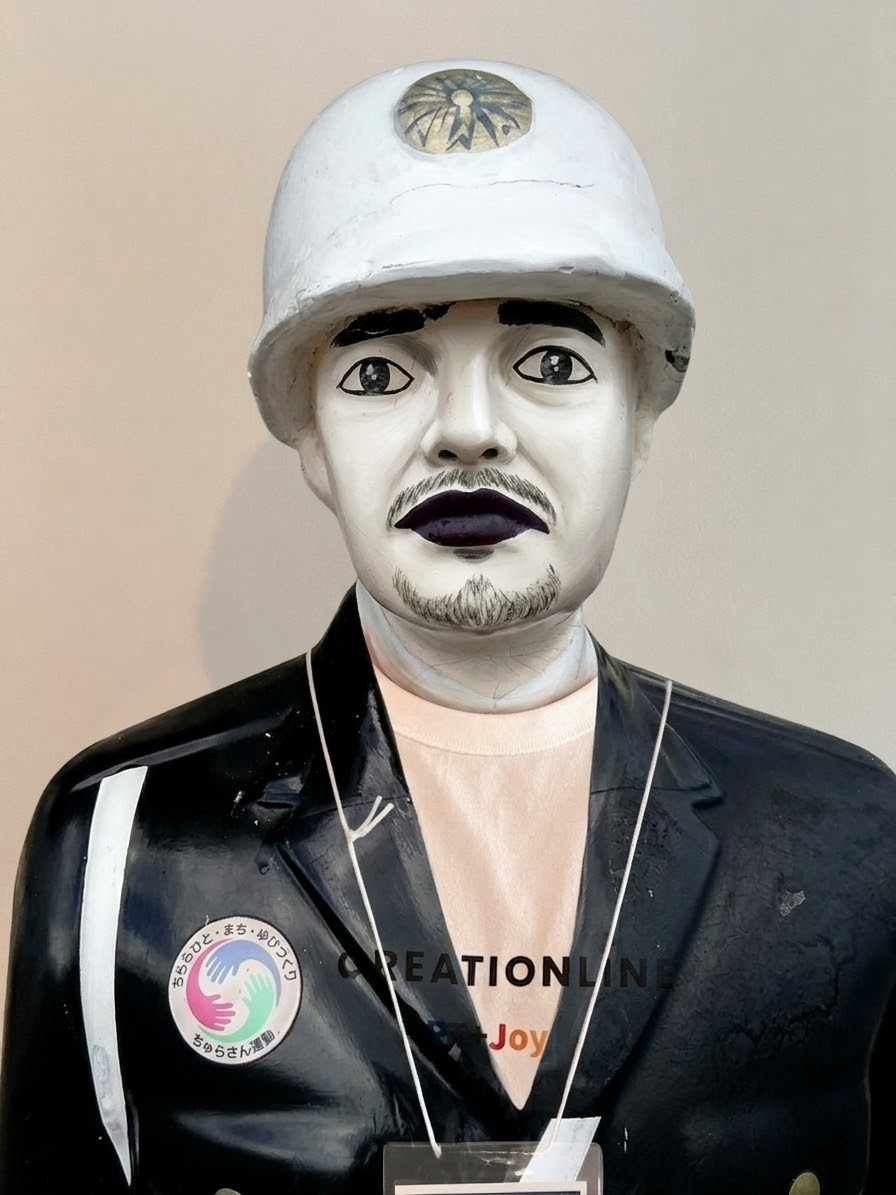
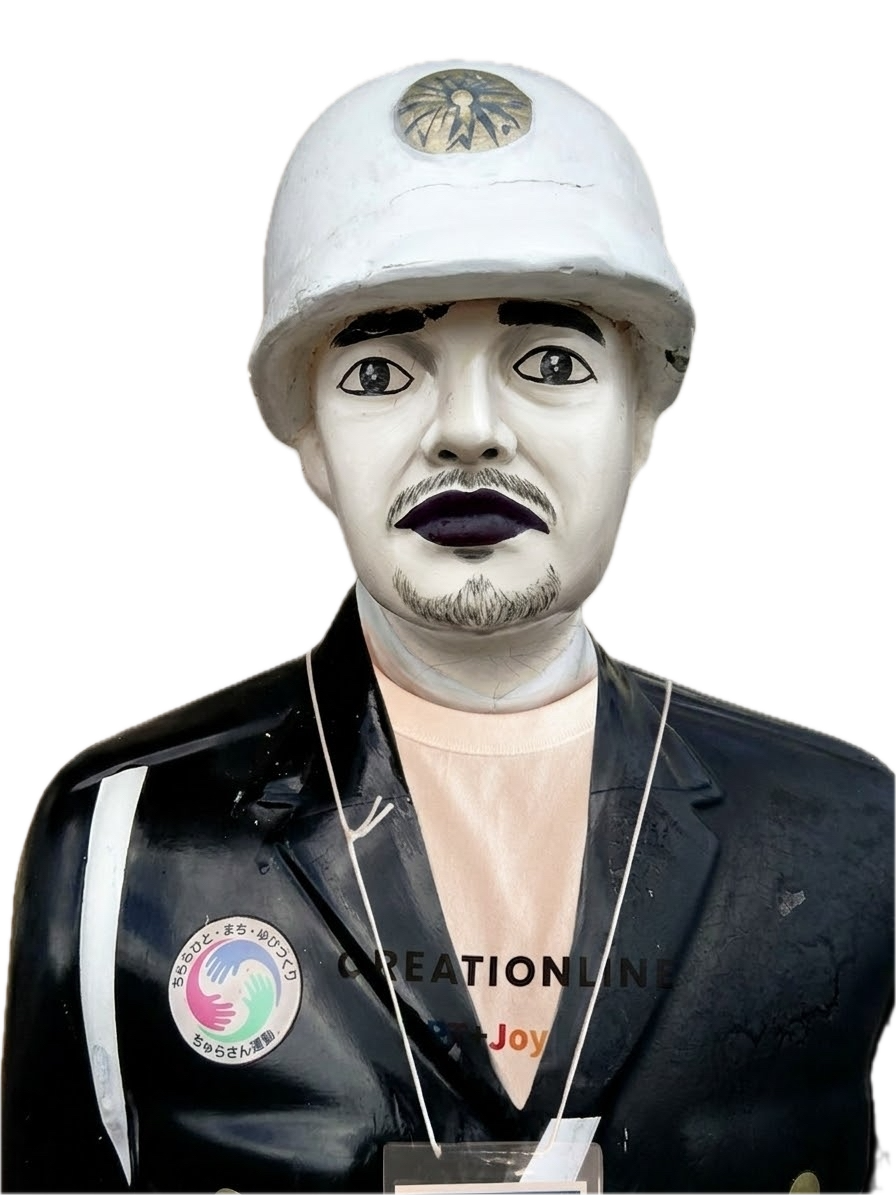
Add updated assets and audio support
Wire in the latest character, background, BGM, and sound effect assets while keeping optional enemy illustration paths ready for future drops.

diff --git a/src/main.js b/src/main.js
@@ -12,10 +12,11 @@ const UNIT_IMAGE_SIZE = 162;
 const UNIT_HIT_RADIUS = 66;
 
 const ASSET_PATHS = {
-  background: "/assets/backgrounds/miyakojima_stage.png",
+  background: "/assets/backgrounds/11317783i.png",
   typhoon01: "/assets/enemies/taihu01.png",
   typhoon02: "/assets/enemies/taihu02.png",
   playerBase: "/assets/bases/miyakojima_base.png",
+  bgm: "/assets/sounds/bgm/沖縄風BGM.mp3",
 };
 
 const CHARACTER_TYPES = [
@@ -52,7 +53,7 @@ const CHARACTER_TYPES = [
     id: "runner",
     name: "ふき",
     role: "速攻",
-    imagePath: "/assets/characters/fuki.png",
+    imagePath: "/assets/characters/huki.png",
     cost: 120,
     cooldown: 2200,
     hp: 95,
@@ -84,6 +85,12 @@ const CHARACTER_TYPES = [
     name: "しげ",
     role: "高火力",
     imagePath: "/assets/characters/shige.png",
+    sounds: {
+      deploy: {
+        key: "shigeAction",
+        path: "/assets/sounds/characters/shige_action.mp3",
+      },
+    },
     cost: 280,
     cooldown: 5000,
     hp: 260,
@@ -115,6 +122,16 @@ const CHARACTER_TYPES = [
     name: "十松",
     role: "支援",
     imagePath: "/assets/characters/jumatsu.png",
+    sounds: {
+      deploy: {
+        key: "jumatsuAction",
+        path: "/assets/sounds/characters/jumatsu_action.m4a",
+      },
+      attack: {
+        key: "jumatsuAction",
+        path: "/assets/sounds/characters/jumatsu_action.m4a",
+      },
+    },
     cost: 240,
     cooldown: 5200,
     hp: 120,
@@ -130,7 +147,8 @@ const CHARACTER_TYPES = [
 
 const ENEMY_TYPES = {
   drop: {
-    name: "雨粒",
+    name: "雨",
+    imagePath: "/assets/enemies/rain.png",
     hp: 80,
     damage: 12,
     range: 30,
@@ -142,6 +160,7 @@ const ENEMY_TYPES = {
   },
   gust: {
     name: "突風",
+    imagePath: "/assets/enemies/gust.png",
     hp: 62,
     damage: 18,
     range: 28,
@@ -152,7 +171,8 @@ const ENEMY_TYPES = {
     radius: 16,
   },
   cloud: {
-    name: "雷雲",
+    name: "雷",
+    imagePath: "/assets/enemies/thunder.png",
     hp: 260,
     damage: 34,
     range: 42,
@@ -189,22 +209,14 @@ const ENEMY_TYPES = {
 const SPAWN_PLAN = [
   { at: 1200, type: "typhoon01" },
   { at: 2600, type: "drop" },
-  { at: 4300, type: "drop" },
   { at: 6800, type: "gust" },
-  { at: 8500, type: "drop" },
   { at: 10800, type: "cloud" },
   { at: 12800, type: "drop" },
-  { at: 14500, type: "gust" },
   { at: 16200, type: "gust" },
-  { at: 19000, type: "cloud" },
   { at: 21800, type: "drop" },
-  { at: 23600, type: "drop" },
   { at: 25800, type: "gust" },
   { at: 28600, type: "cloud" },
-  { at: 33000, type: "cloud" },
-  { at: 36200, type: "gust" },
   { at: 38200, type: "cloud" },
-  { at: 41000, type: "drop" },
   { at: 43000, type: "gust" },
 ];
 
@@ -229,22 +241,38 @@ class LaneBattleScene extends Phaser.Scene {
     this.load.image("background", ASSET_PATHS.background);
     this.load.image("typhoon01", ASSET_PATHS.typhoon01);
     this.load.image("typhoon02", ASSET_PATHS.typhoon02);
-    this.load.image("playerBase", ASSET_PATHS.playerBase);
-    for (const type of CHARACTER_TYPES) {
-      this.load.image(type.id, type.imagePath);
-      if (type.sounds) {
-        for (const sound of Object.values(type.sounds)) {
-          this.load.audio(sound.key, sound.path);
-        }
-      }
-    }
   }
 
   create() {
     this.createField();
     this.createHud();
-    this.createCards();
+    this.loadSmallEnemyImages();
+    this.loadCharacterImages();
+    this.setupBackgroundMusic();
+    this.time.delayedCall(1500, () => {
+      if (!this.characterCardsCreated) {
+        this.createCards();
+      }
+    });
     this.showMessage("下のカードをクリックして、守くん風キャラを出撃させよう");
+  }
+
+  setupBackgroundMusic() {
+    this.bgm = new Audio(ASSET_PATHS.bgm);
+    this.bgm.loop = true;
+    this.bgm.volume = 0.35;
+
+    const startBgm = () => {
+      if (!this.bgm || !this.bgm.paused) {
+        return;
+      }
+      this.bgm.play().catch(() => {
+        // BGMファイル未配置やブラウザ制限時はゲーム進行を優先します。
+      });
+    };
+
+    this.input.once("pointerdown", startBgm);
+    this.input.keyboard?.once("keydown", startBgm);
   }
 
   update(time, delta) {
@@ -279,8 +307,8 @@ class LaneBattleScene extends Phaser.Scene {
     this.enemyBase = this.add.container(ENEMY_BASE_X, GROUND_Y - 80);
     const eye = this.add.circle(0, 0, 44, 0x7e22ce);
     eye.setStrokeStyle(5, 0xe9d5ff);
-    const swirl = this.add.text(0, -21, "台風\n発生源", {
-      fontSize: "17px",
+    const swirl = this.add.text(0, -28, "台風7号\n(メーカラー)", {
+      fontSize: "15px",
       color: "#ffffff",
       align: "center",
       fontStyle: "bold",
@@ -339,6 +367,10 @@ class LaneBattleScene extends Phaser.Scene {
   }
 
   createCards() {
+    if (this.characterCardsCreated) {
+      return;
+    }
+    this.characterCardsCreated = true;
     this.add.rectangle(WIDTH / 2, FIELD_HEIGHT + UI_HEIGHT / 2, WIDTH, UI_HEIGHT, 0x111827);
     this.add.text(18, FIELD_HEIGHT + 10, "守くん風キャラ出撃メニュー", {
       fontSize: "18px",
@@ -390,6 +422,39 @@ class LaneBattleScene extends Phaser.Scene {
     });
   }
 
+  loadCharacterImages() {
+    const unloadedTypes = CHARACTER_TYPES.filter((type) => !this.textures.exists(type.id));
+    if (unloadedTypes.length === 0) {
+      this.createCards();
+      return;
+    }
+
+    this.load.once("complete", () => {
+      if (!this.characterCardsCreated) {
+        this.createCards();
+      }
+    });
+    for (const type of unloadedTypes) {
+      this.load.image(type.id, type.imagePath);
+    }
+    this.load.start();
+  }
+
+  loadSmallEnemyImages() {
+    for (const [typeId, type] of Object.entries(ENEMY_TYPES)) {
+      if (!type.imagePath || this.textures.exists(typeId)) {
+        continue;
+      }
+      const image = new Image();
+      image.onload = () => {
+        if (!this.textures.exists(typeId)) {
+          this.textures.addImage(typeId, image);
+        }
+      };
+      image.src = type.imagePath;
+    }
+  }
+
   makePortrait(type, x, y, radius) {
     if (this.textures.exists(type.id)) {
       const image = this.add.image(x, y, type.id);
@@ -432,7 +497,10 @@ class LaneBattleScene extends Phaser.Scene {
       x: ENEMY_BASE_X + 58,
       direction: 1,
       baseTargetX: PLAYER_BASE_X - 72,
-      imageKey: typeId === "typhoon01" || typeId === "typhoon02" ? typeId : null,
+      imageKey:
+        typeId === "typhoon01" || typeId === "typhoon02" || this.textures.exists(typeId)
+          ? typeId
+          : null,
       displayName: type.name,
       typeId,
     });
@@ -635,11 +703,13 @@ class LaneBattleScene extends Phaser.Scene {
 
   playActorSound(actor, eventName) {
     const soundConfig = actor.sounds?.[eventName];
-    if (!soundConfig || !this.cache.audio.exists(soundConfig.key)) {
+    if (!soundConfig) {
       return;
     }
-    this.sound.play(soundConfig.key, {
-      volume: eventName === "hit" ? 0.65 : 0.8,
+    const audio = new Audio(soundConfig.path);
+    audio.volume = eventName === "hit" ? 0.65 : 0.8;
+    audio.play().catch(() => {
+      // Browser autoplay policies can reject playback before the first user gesture.
     });
   }
 

diff --git a/README.md b/README.md
@@ -93,15 +93,18 @@ pnpm build
 ```text
 public/assets/enemies/taihu01.png
 public/assets/enemies/taihu02.png
+public/assets/enemies/rain.png
+public/assets/enemies/gust.png
+public/assets/enemies/thunder.png
 
 public/assets/characters/yamada.png
-public/assets/characters/fuki.png
+public/assets/characters/huki.png
 public/assets/characters/yuta.png
 public/assets/characters/shige.png
 public/assets/characters/kasshi.png
 public/assets/characters/jumatsu.png
 
-public/assets/backgrounds/miyakojima_stage.png
+public/assets/backgrounds/11317783i.png
 public/assets/bases/miyakojima_base.png
 ```
 
@@ -113,4 +116,28 @@ public/assets/bases/miyakojima_base.png
 public/assets/sounds/characters/ikuze.m4a
 public/assets/sounds/characters/ei.m4a
 public/assets/sounds/characters/u.m4a
+```
+
+## 十松専用効果音の配置先
+
+十松は出撃時と攻撃時に同じ効果音を再生します。次の M4A ファイルを置いてください。
+
+```text
+public/assets/sounds/characters/jumatsu_action.m4a
+```
+
+## しげ専用効果音の配置先
+
+しげは出撃時に効果音を再生します。次の MP3 ファイルを置いてください。
+
+```text
+public/assets/sounds/characters/shige_action.mp3
+```
+
+## BGM の配置先
+
+ゲーム中にループ再生するBGMは、次のファイル名で置いてください。ブラウザの自動再生制限に合わせて、最初のクリックまたはキー入力後に再生されます。
+
+```text
+public/assets/sounds/bgm/沖縄風BGM.mp3
 ```